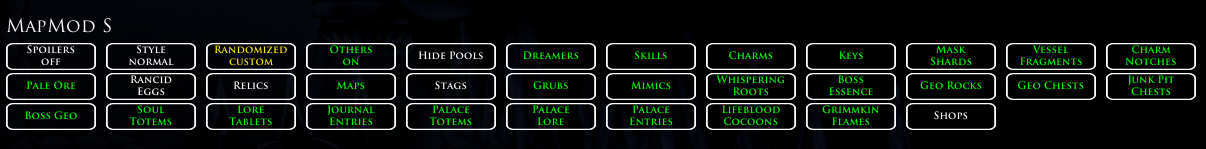
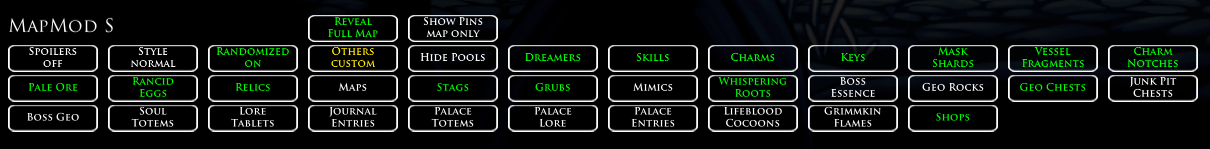
Swapped position of two new buttons, changed Elderbug dialogue, updated readme

Changed region(s): [[0.0, 0.0, 1.0, 0.8859], [0.0, 0.1074, 0.092, 0.2148], [0.5216, 0.349, 0.5522, 0.4295]]

diff --git a/HollowKnight.RandoMap/MapModS.cs b/HollowKnight.RandoMap/MapModS.cs
@@ -498,10 +498,10 @@ namespace RandoMapMod
 					else if (_convoCounter == 0)
 					{
 						string talk = "Welcome to Randomizer Map S!" +
-							" Talk to me two more times, and I'll give you all the Maps. Once enabled, you can use the" +
+							" Talk to me two more times, and I'll give you a Map with custom Pins. Once enabled, you can use the" +
 							" UI in the Pause Menu to adjust the Map/Pins to your liking.\n" +
 							"<page>A big Pin means you can reach the location. A little Pin means you are missing a key item to be able to reach there.";
-						talk += "<page>You can also use the hotkey CTRL-M to get all the Maps.";
+						talk += "<page>You can also use the hotkey CTRL-M to enable the mod.";
 						message = talk;
 						_convoCounter++;
 					}

diff --git a/HollowKnight.RandoMap/PauseGUI.cs b/HollowKnight.RandoMap/PauseGUI.cs
@@ -89,7 +89,7 @@ namespace RandoMapMod
 				(
 					"Reveal\nFull Map",
 					GUIController.Instance.Images["ButtonRect"],
-					new Vector2(400, -30f),
+					new Vector2(300, -30f),
 					Vector2.zero,
 					_RevealFullMapClicked,
 					buttonRect,
@@ -103,7 +103,7 @@ namespace RandoMapMod
 				(
 					"Show Pins",
 					GUIController.Instance.Images["ButtonRect"],
-					new Vector2(300, -30f),
+					new Vector2(400, -30f),
 					Vector2.zero,
 					_ShowPinsClicked,
 					buttonRect,

diff --git a/HollowKnight.RandoMap/PinGroup.cs b/HollowKnight.RandoMap/PinGroup.cs
@@ -1,5 +1,4 @@
-//using RandoMapMod.BoringInternals;
-using System;
+using System;
 using System.Collections.Generic;
 using System.Linq;
 using UnityEngine;

diff --git a/README.md b/README.md
@@ -15,28 +15,29 @@ This fork of CaptainDapper's original mod has been expanded on with more feature
 https://github.com/Shadudev/HollowKnight.RandomizerMod
 https://github.com/Shadudev/HollowKnight.MultiWorld
 
-# Features
-- Use `CTRL-M` during a game to enable the mod and give all Maps to the player. This can also be done by talking to Elderbug a few times.
+# Quick Start Guide
+- Use `CTRL-M` during a game to enable the mod and give an empty Map.
+- If you want the complete Map with all the Pins, then click "Reveal Full Map" in the Pause Menu.
 
-- The World Map will now show Pins for every item in the game.
+# Full Features
+- Along with `CTRL-M` you can also talk to Elderbug a few times to enable the mod.
+
+- The World Map will now show Pins for every item check.
     - Big Pins means the items are reachable according to RandomizerMod's logic
     - Small Pins means the items are not randomized or not reachable
     - Pins for randomized items will disappear as you check them
     - Randomizer Map's settings are displayed at the bottom
-    - Quick Map can also be used to only show Pins in the current Map area
 
-- The Pause Menu UI has the following buttons:
-    - "Spoilers": Toggle Pins between vanilla (non-spoiler) and spoiler item pools
-    - "Style": Toggle the style of the Pins
-    - "Randomized": Toggle all randomized items on/off
-    - "Others": Toggle all other items on/off (excluding Shops)
+- The Pause Menu UI has the following buttons, with the following hotkeys:
+    - "Reveal Full Map": Gives you every Map item and fills in every room on the Map. Cannot be undone
+    - "Show Pins": Toggle Pins to show everywhere on the Map, or only for Map items you have picked up
+
+    - "Spoilers" `CTRL-1`: Toggle Pins between vanilla (non-spoiler) and spoiler item pools
+    - "Style" `CTRL-2`: Toggle the style of the Pins
+    - "Randomized" `Ctrl-3`: Toggle all Pins for randomized items on/off
+    - "Others" `Ctrl-4`: Toggle all Pins for other items on/off (excluding Shops)
+
     - "Show/Hide Pools": Open/close a panel with a toggle for each spoiler item pool
-
-- You can also use these hotkeys at any time during the game:
-    - `CTRL-1`: "Spoilers"
-    - `CTRL-2`: "Style"
-    - `Ctrl-3`: "Randomized"
-    - `Ctrl-4`: "Others"
 
 The Pin settings are saved between game loads.
 
@@ -47,21 +48,19 @@ The Pin settings are saved between game loads.
 4. That's it!
 
 # Acknowledgements
-- The Hollow Knight/Hollow Knight Speedrun Discord Channels for always giving very sound advice and suggestions.
+- The Hollow Knight/Hollow Knight Speedrun Discord Channels for always giving very sound advice and suggestions
 - CaptainDapper for making the original mod
 - Chaktis for helping with sprite art
 
-# Version 1.1.0 Changes
-- Now with a UI in the Pause Menu! You can now manually toggle each item pool on/off.
-- Also added a text overlay to the World Map and Quick Map
-- Added the option to switch to old pin styles
-- Changed the hotkeys to match the UI
-- Quick Map now only shows Pins in the current Map area
-- Fixed some Pins not showing
-- Updated some Pin art
-- Various bug fixes
+# Version 1.1.1 Changes
+- Added the option to reveal the full Map or leave as is (if you want Map items to be useful) in the Pause Menu
+- Also added an option to show Pins in all areas or only Pins for unlocked maps
+- Fixed Hallownest Crown items not showing up in Quick Map
+- Fixed Elevator Pass Pin not showing up
+- Removed Jiji Pin
 - More code cleanup
 
 # Known Bugs / Missing Features
 - Not compatible when RandomizerMod isn't installed
 - Non-randomized items don't get checked off on the Map
+- Reachable items don't show properly with room rando
